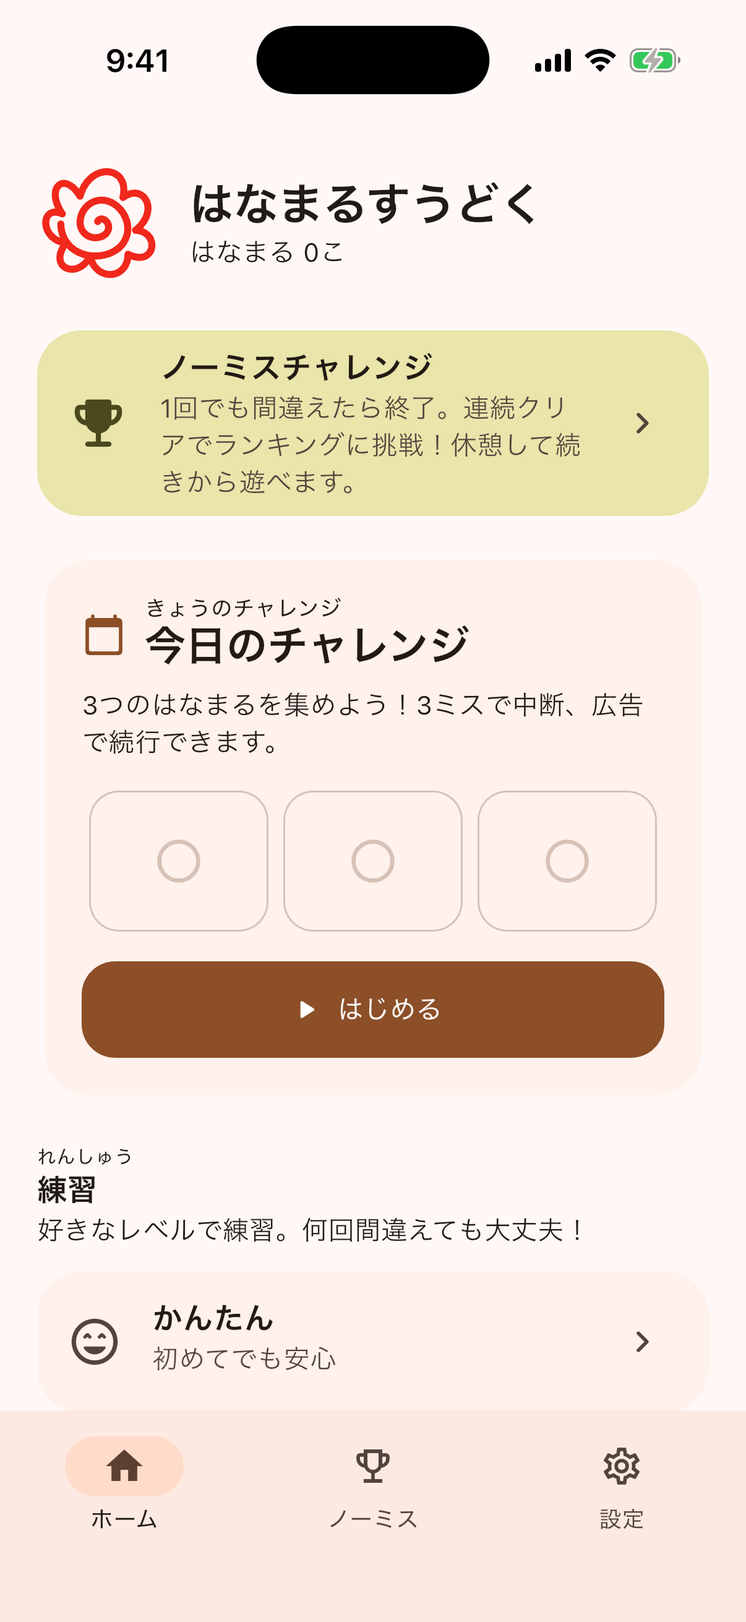
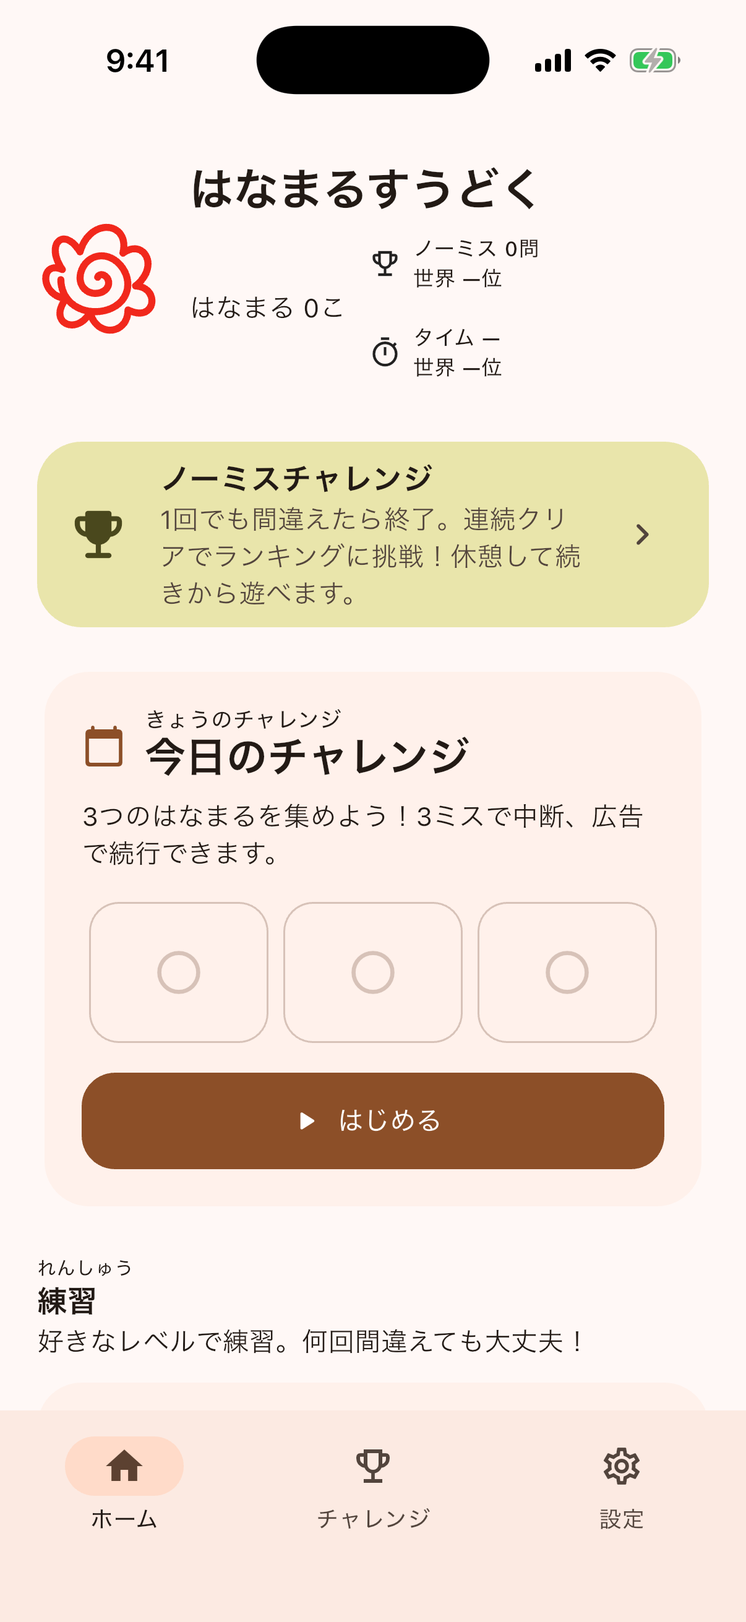
Add Time Attack guide and refresh Sudoku screenshots

diff --git a/hanamarusudoku/privacy/index.html b/hanamarusudoku/privacy/index.html
@@ -4,34 +4,34 @@
 <link rel="canonical" href="https://yysanta.github.io/support/hanamarusudoku/privacy/"><link rel="stylesheet" href="../../assets/site.css"><link rel="stylesheet" href="../site.css"></head><body>
 <a class="skip-link" href="#main-content">本文へ移動</a>
 <header class="site-header"><div class="container header-inner"><a class="brand" href="../"><span><span class="brand-name">はなまるすうどく</span><span class="brand-subtitle">Privacy Policy</span></span></a><nav class="header-nav"><a href="../">サポートへ戻る</a></nav></div></header>
-<main id="main-content"><section class="privacy-hero"><div class="container privacy-hero-inner"><div><p class="eyebrow">PRIVACY POLICY</p><h1>プライバシーポリシー</h1><p>制定・最終更新日 / Effective &amp; updated: 2026-10-10</p><nav class="language-nav" aria-label="Languages"><a href="#ja">日本語</a><a href="#en">English</a><a href="#zh">简体中文</a><a href="#ko">한국어</a></nav></div></div></section>
+<main id="main-content"><section class="privacy-hero"><div class="container privacy-hero-inner"><div><p class="eyebrow">PRIVACY POLICY</p><h1>プライバシーポリシー</h1><p>制定・最終更新日 / Effective &amp; updated: 2026-10-11</p><nav class="language-nav" aria-label="Languages"><a href="#ja">日本語</a><a href="#en">English</a><a href="#zh">简体中文</a><a href="#ko">한국어</a></nav></div></div></section>
 <section class="privacy-section"><div class="container privacy-layout"><article class="privacy-article">
-<section id="ja" lang="ja"><h2>日本語</h2>
+<section id="ja" lang="ja"><h2>日本語</h2><p>手動メモの候補数字と、タイムアタックの開始日時・経過時間・ミス数・途中盤面・選択マス・完了記録を端末内に保存します。ノーミスとタイムアタックの記録は別々に管理します。接続済みの場合、ホームの順位表示のためAppleから自分の世界順位を取得します。取得できない順位を推測したり、独自サーバーへ送信したりはしません。</p>
 <h3>1. 基本方針と運営者</h3><p>Santarow（以下「運営者」）が提供する「はなまるすうどく」（以下「本アプリ」）は、端末内での遊びと記録を基本とします。通常のプレイに登録・ログインは不要です。本ポリシーは現在のiOS版および公式サポートページに適用します。</p>
 <h3>2. 端末内に保存する情報</h3><p>初回説明の完了状態、日付ごとのクリア履歴、はなまるの累計、日次・練習・ランキングの利用回数と広告報酬の回数、休憩中のランキングの盤面・連続クリア数・選択マス、チャレンジの利用日・記録・端末内上位記録、および初回にランダム生成する匿名IDを、機能の提供と進捗表示のために端末内へ保存します。匿名IDは広告IDや端末固有IDではなく、運営者のサーバーへ送信しません。氏名、年齢、生年月日、住所、位置情報、連絡先、写真は本アプリで要求しません。</p><p>運営者は進捗収集用サーバーを運営しておらず、端末内の記録を収集しません。iOSの端末バックアップにアプリデータが含まれる場合、その取扱いは利用者のiOS設定とAppleのサービスに従います。</p>
-<h3>3. 任意のGame Center</h3><p>利用者がGame Centerへの接続を選んだ場合、Appleの認証・ランキング機能を利用します。本アプリは認証状態、ゲーム用プレイヤーID、Game Centerの表示名をAppleから取得し、接続状態の表示とランキング連携に使います。接続中にチャレンジを終了すると、連続クリア数をAppleのGame Centerへ送信します。運営者独自のサーバーへこれらを送信・保存する機能はありません。</p><p>世界ランキングにはGame Centerの名前とスコアが他のプレイヤーに表示されることがあります。端末内の匿名IDとは別です。接続しなくても通常のプレイと端末内記録を利用できます。Appleによるデータの管理・公開範囲については、<a href="https://www.apple.com/legal/privacy/data/ja/game-center/">Game Centerとプライバシー</a>、<a href="https://www.apple.com/legal/privacy/">Appleのプライバシーポリシー</a>およびGame Centerの設定をご確認ください。</p>
+<h3>3. 任意のGame Center</h3><p>利用者がGame Centerへの接続を選んだ場合、Appleの認証・ランキング機能を利用します。本アプリは認証状態、ゲーム用プレイヤーID、Game Centerの表示名をAppleから取得し、接続状態の表示とランキング連携に使います。接続時、接続中の挑戦終了時、世界ランキングを開く時に、保存済みの最高連続クリア数・最短クリア時間（ミス加算を含む）をAppleのGame Centerへ送信します。運営者独自のサーバーへこれらを送信・保存する機能はありません。</p><p>世界ランキングにはGame Centerの名前とスコアが他のプレイヤーに表示されることがあります。端末内の匿名IDとは別です。接続しなくても通常のプレイと端末内記録を利用できます。Appleによるデータの管理・公開範囲については、<a href="https://www.apple.com/legal/privacy/data/ja/game-center/">Game Centerとプライバシー</a>、<a href="https://www.apple.com/legal/privacy/">Appleのプライバシーポリシー</a>およびGame Centerの設定をご確認ください。</p>
 <h3>4. 広告・課金・解析・第三者提供</h3><p>広告対応版では、Google AdMob（Google Mobile Ads SDK）と同意管理用のUser Messaging Platformを利用します。広告は利用者が追加のプレイやヒントを選んだ場合だけ表示し、自動の広告表示は行いません。確認中のテスト版はテスト広告を使用します。広告SDK導入前の1.0.0（7）以前の版には広告はありません。</p><p>Googleは広告配信、不正利用防止、広告測定・解析、サービス改善等のために、IPアドレス（おおまかな位置の推定を含む）、端末・アプリ等の識別子、広告の表示・視聴・操作情報、クラッシュ情報や性能情報を取り扱う場合があります。非パーソナライズ設定でも、すべてのデータ処理がなくなるわけではありません。運営者独自の進捗収集サーバーへこれらを送信する機能はありません。詳しくは<a href="https://policies.google.com/privacy">Googleのプライバシーポリシー</a>と<a href="https://developers.google.com/admob/ios/privacy/data-disclosure">広告SDKのデータ取扱い</a>をご確認ください。</p><p>年齢や生年月日は収集せず、広告リクエストは子ども向け保護設定・Gの広告コンテンツ評価上限・非パーソナライズ設定を適用します。本アプリはAppleの追跡許可を要求しません。広告の前にGoogleの同意情報を確認し、必要な案内を表示します。プライバシー選択の変更が必要と判断された場合は、アプリのヘルプに変更用の入口を表示します。これらの設定は広告内容や法令適合を一律に保証するものではありません。任意の買い切りはAppleのStoreKitを利用します。購入・復元の際はAppleが決済・取引情報を処理し、本アプリは検証済みの購入状態を広告なし機能の提供に使います。購入権利は進捗バックアップに含めず、Appleからの復元を利用します。運営者はカード番号や請求先を取得しません。別の独自解析SDKは導入しておらず、運営者は個人データを販売しません。</p>
 <h3>5. サポートページとお問い合わせ</h3><p>本サイトはGitHub Pagesで公開しています。GitHubはサイトへのアクセスに伴うIPアドレス等の技術情報を取り扱う場合があります。詳しくは<a href="https://docs.github.com/en/site-policy/privacy-policies/github-general-privacy-statement">GitHubのプライバシーに関する声明</a>をご確認ください。運営者は本サイトに広告・アクセス解析・独自のトラッキングを設置していません。</p><p>メールによるお問い合わせでは、送信者のメールアドレスと本文・添付資料を受領します。これらは問い合わせへの回答、不具合調査、必要な連絡のために利用し、対応に必要な期間のみ保持して、不要になった情報は削除します。メールの処理にはGoogleのGmailを利用し、同社の<a href="https://policies.google.com/privacy">プライバシーポリシー</a>も適用されます。パスワードや不要な個人情報は送らないでください。</p>
 <h3>6. お子様・データ削除・ご相談</h3><p>本アプリは幅広い年齢の方が遊べる設計で、自由入力の名前や年齢確認はありません。お子様が外部サービスへの接続やお問い合わせを行う際は、保護者の方とご確認ください。端末内のデータはアプリを削除して削除できます（バックアップはiOS側で管理してください）。Game Centerに送信されたデータはAppleの管理下にあり、アプリの削除だけでは削除されない場合があります。Appleの設定・サポートをご利用ください。</p><p>運営者が受領したお問い合わせ情報の確認・訂正・削除等のご希望は、<a href="mailto:minnanosakusenboard@gmail.com?subject=Hanamaru%20Sudoku%20Privacy">minnanosakusenboard@gmail.com</a>へご連絡ください。法令に基づく保存が必要な場合を除き、本人確認のうえ対応します。</p>
 <h3>7. 改定</h3><p>機能や取扱いの変更に応じて本ページを更新します。重要な変更は、必要に応じてアプリや本サイトでもお知らせします。</p></section>
-<section id="en" lang="en"><h2>English</h2>
+<section id="en" lang="en"><h2>English</h2><p>Pencil-note candidates and Time Attack start timestamps, elapsed time, mistakes, unfinished boards, selected cells and completed records are saved on this device. The two challenge records are separate. When connected, the app reads your world ranks from Apple for the home summary. It does not invent missing ranks or send them to an operator-owned server.</p>
 <h3>Operator and scope</h3><p>Santarow (the “operator”) provides Hanamaru Sudoku. This policy covers the current iOS app and its support website. Ordinary play does not require registration or sign-in.</p>
 <h3>Local data</h3><p>Onboarding completion, daily puzzle completions, total hanamaru, daily/practice/ranked play and reward counts, the board, streak and selected square of a paused ranked run, challenge dates and scores, top on-device records, and a randomly generated anonymous ID are stored locally to provide gameplay and progress. The ID is not an advertising or device identifier and is not sent to the operator. The app does not request your real name, age, date of birth, address, location, contacts or photos. The operator has no server collecting your progress. iOS device backups may include app data according to your settings and Apple's services.</p>
-<h3>Optional Game Center</h3><p>If you choose to connect, Apple's Game Center provides authentication and leaderboards. The app receives authentication status, a game player ID and Game Center display name to show your connection and integrate rankings. When you finish a challenge while connected, your consecutive puzzle-clear score is sent to Apple. The app has no feature sending or storing these details on the operator's own server. Your Game Center name and score may be visible to other players; this is separate from your local anonymous ID. Normal play and local records work without connecting. See <a href="https://www.apple.com/legal/privacy/data/en/game-center/">Game Center &amp; Privacy</a>, <a href="https://www.apple.com/legal/privacy/">Apple's privacy policy</a> and your Game Center settings.</p>
+<h3>Optional Game Center</h3><p>If you choose to connect, Apple's Game Center provides authentication and leaderboards. The app receives authentication status, a game player ID and Game Center display name to show your connection and integrate rankings. On connection, completion while connected and opening world rankings, the app sends saved best streaks and shortest completion times (including mistake penalties) to Apple. The app has no feature sending or storing these details on the operator's own server. Your Game Center name and score may be visible to other players; this is separate from your local anonymous ID. Normal play and local records work without connecting. See <a href="https://www.apple.com/legal/privacy/data/en/game-center/">Game Center &amp; Privacy</a>, <a href="https://www.apple.com/legal/privacy/">Apple's privacy policy</a> and your Game Center settings.</p>
 <h3>Ads, purchases and third parties</h3><p>Ad-supported versions use Google AdMob (Google Mobile Ads SDK) and the User Messaging Platform for consent management. Ads appear only when you choose extra plays or hints, never automatically. Test builds use test ads. Version 1.0.0 (7) and earlier, before SDK integration, have no ads.</p><p>Google may process IP addresses (including approximate location), device or app identifiers, advertising views and interactions, crash logs and performance information for advertising, fraud prevention, measurement, analytics and service improvement. Non-personalized ads do not eliminate all data processing. The app does not send these details to an operator-owned progress server. See <a href="https://policies.google.com/privacy">Google’s privacy policy</a> and <a href="https://developers.google.com/admob/ios/privacy/data-disclosure">SDK data disclosures</a>.</p><p>The app does not collect age or date of birth. Ad requests apply child-protection treatment, a G content-rating limit and non-personalized settings. The app does not request Apple tracking authorization. Consent information is checked before ads, with notices when required and a privacy-options entry in Help when Google determines it is required. These settings do not guarantee all ad content or legal compliance. Optional one-time purchases use Apple StoreKit. Apple handles payment and transaction information; the app uses verified entitlements to unlock ad-free features. Entitlements are restored from Apple, not progress backups. The operator does not receive card numbers or billing addresses. There are no separate independent analytics SDKs; the operator does not sell personal data.</p>
 <h3>Website and support</h3><p>This site uses GitHub Pages. GitHub may process technical access information such as IP addresses under its <a href="https://docs.github.com/en/site-policy/privacy-policies/github-general-privacy-statement">privacy statement</a>. The operator adds no website ads, analytics or independent tracking. If you email us, we receive your email address, message and attachments to answer questions, investigate issues and communicate as needed. We retain them only as needed for support and delete information no longer needed, except where legally required. Email is handled using Google's Gmail under <a href="https://policies.google.com/privacy">Google's privacy policy</a>. Do not send passwords or unnecessary personal details.</p>
 <h3>Children, deletion and requests</h3><p>The app is designed for a broad age range and has no custom-name entry or age check. Children should consult a parent or guardian before connecting external services or contacting support. Deleting the app removes local data; manage backups in iOS. Game Center data is managed by Apple and may remain after app deletion; use Apple's settings and support. Contact <a href="mailto:minnanosakusenboard@gmail.com?subject=Hanamaru%20Sudoku%20Privacy">minnanosakusenboard@gmail.com</a> to request access, correction or deletion of support information the operator holds. We will verify the requester's identity and respond, subject to legal retention requirements.</p>
-<h3>Updates</h3><p>We update this page when functions or practices change and provide additional notice in the app or on this site for important changes where appropriate. Effective and last updated: October 10, 2026.</p></section>
-<section id="zh" lang="zh-Hans"><h2>简体中文</h2>
+<h3>Updates</h3><p>We update this page when functions or practices change and provide additional notice in the app or on this site for important changes where appropriate. Effective and last updated: October 11, 2026.</p></section>
+<section id="zh" lang="zh-Hans"><h2>简体中文</h2><p>手动笔记候选数字及计时挑战的开始时间、经过时间、失误数、未完成棋盘、所选格子和完成记录保存在本机。两项挑战记录分别管理。已连接时，应用从Apple读取自己的世界排名，用于主页显示。不会推测无法获取的排名，也不会发送到运营者服务器。</p>
 <h3>运营者与本机数据</h3><p>本政策适用于Santarow提供的花丸数独iOS应用及支持网站。普通游玩无需注册或登录。首次引导状态、每日完成记录、花丸总数、游玩与广告奖励次数、暂停挑战的棋盘与连续通关数及所选格子、挑战日期与分数、本机最佳记录及随机生成的匿名ID存储在设备上，用于提供游戏和进度功能。该ID不是广告ID或设备标识，不会发送给运营者。应用不要求真实姓名、年龄、出生日期、地址、位置、联系人或照片。运营者没有收集进度的服务器。iOS备份可能按照用户设置及Apple服务包含应用数据。</p>
-<h3>可选Game Center</h3><p>选择连接后，应用从Apple获得认证状态、游戏玩家ID及Game Center显示名称，用于显示连接状态与排行榜。连接状态下结束挑战时，连续完成题数会发送给Apple。应用不会将上述数据发送或保存到运营者自己的服务器。其他玩家可能看到您的Game Center名称与分数，而不是本机匿名ID。不连接也可普通游玩及保存本机记录。Apple的处理和公开设置请参阅<a href="https://www.apple.com/legal/privacy/data/en/game-center/">Game Center与隐私</a>、<a href="https://www.apple.com/legal/privacy/">Apple隐私政策</a>及Game Center设置。</p>
+<h3>可选Game Center</h3><p>选择连接后，应用从Apple获得认证状态、游戏玩家ID及Game Center显示名称，用于显示连接状态与排行榜。连接时、连接状态下结束挑战及打开世界排行榜时，已保存的最高连胜与最短完成时间（含失误加时）会发送给Apple。应用不会将上述数据发送或保存到运营者自己的服务器。其他玩家可能看到您的Game Center名称与分数，而不是本机匿名ID。不连接也可普通游玩及保存本机记录。Apple的处理和公开设置请参阅<a href="https://www.apple.com/legal/privacy/data/en/game-center/">Game Center与隐私</a>、<a href="https://www.apple.com/legal/privacy/">Apple隐私政策</a>及Game Center设置。</p>
 <h3>广告、网站与支持</h3><p>广告支持版本使用Google AdMob（Google Mobile Ads SDK）及User Messaging Platform进行同意管理。仅在您选择增加游玩或提示时显示广告，不会自动播放。测试版本使用测试广告。引入SDK前的1.0.0（7）及更早版本没有广告。</p><p>Google可能为广告投放、防止欺诈、广告测量与分析、服务改进处理IP地址（含大致位置推断）、设备或应用标识、广告展示和互动、崩溃及性能信息。非个性化广告不表示没有任何数据处理。应用不会将这些信息发送给运营者的进度服务器。详情请参阅<a href="https://policies.google.com/privacy">Google隐私政策</a>及<a href="https://developers.google.com/admob/ios/privacy/data-disclosure">SDK数据披露</a>。</p><p>不收集年龄或出生日期。广告请求应用儿童保护、G内容评级上限及非个性化设置，不申请Apple跟踪授权。广告前确认同意信息，按需显示说明；Google判定需要时，在帮助页面提供隐私选项入口。这些设置并不统一保证所有广告内容或法律合规。可选一次性购买使用Apple StoreKit。Apple处理付款及交易信息；应用用验证后的购买状态解锁免广告功能，并通过Apple恢复购买，购买权限不包含在进度备份中。运营者不接收银行卡号或账单地址。没有单独的独立分析SDK，运营者不出售个人数据。</p><p>网站托管于GitHub Pages，GitHub可能按照其<a href="https://docs.github.com/en/site-policy/privacy-policies/github-general-privacy-statement">隐私声明</a>处理IP地址等访问技术信息。运营者未添加广告、分析或独立跟踪。邮件咨询将使我们获得您的邮件地址、正文及附件，仅用于回复、调查问题和必要沟通；保留至支持所需期限，之后删除，法律另有要求除外。邮件使用Gmail，适用<a href="https://policies.google.com/privacy">Google隐私政策</a>。请勿发送密码或不必要的个人信息。</p>
-<h3>儿童、删除与联系</h3><p>本应用面向广泛年龄人群，不提供自定义姓名或年龄检查。儿童连接外部服务或咨询前应与监护人确认。卸载应用可删除本机数据；备份请在iOS中管理。Game Center数据由Apple管理，卸载后可能仍保留，请使用Apple设置与支持。运营者持有的咨询信息之查阅、更正或删除请求，请联系<a href="mailto:minnanosakusenboard@gmail.com">minnanosakusenboard@gmail.com</a>；核实身份后处理，法律要求保留的情况除外。功能或处理方式变化时更新本页，重要变化适时在应用或网站通知。生效及更新日期：2026年10月10日。</p></section>
-<section id="ko" lang="ko"><h2>한국어</h2>
-<h3>운영자 및 기기 내 정보</h3><p>본 방침은 さんたろう(Yysanta)가 제공하는 하나마루 스도쿠 iOS 앱과 지원 사이트에 적용됩니다. 일반 게임에는 가입이나 로그인이 필요 없습니다. 초기 안내 완료 여부, 날짜별 퍼즐 완료 기록, 하나마루 총수, 챌린지 이용 날짜와 점수, 기기 내 상위 기록 및 무작위 익명 ID를 게임과 진행 표시를 위해 기기에 저장합니다. ID는 광고 또는 기기 식별자가 아니며 운영자에게 전송되지 않습니다. 실명, 나이, 생년월일, 주소, 위치, 연락처나 사진을 요청하지 않습니다. 운영자는 진행 정보를 수집하는 서버를 운영하지 않습니다. iOS 백업은 사용자 설정과 Apple 서비스에 따라 앱 데이터를 포함할 수 있습니다.</p>
-<h3>선택적 Game Center</h3><p>사용자가 연결을 선택하면 Apple의 인증 및 순위 기능을 이용합니다. 앱은 Apple로부터 인증 상태, 게임 플레이어 ID와 표시 이름을 받아 연결 표시 및 순위 연동에 사용합니다. 연결 중 챌린지를 종료하면 연속 완료 수를 Apple로 전송합니다. 이를 운영자 자체 서버로 전송하거나 저장하는 기능은 없습니다. 세계 순위에는 기기 내 익명 ID가 아닌 Game Center 이름과 점수가 다른 플레이어에게 표시될 수 있습니다. 연결하지 않아도 일반 게임과 기기 내 기록을 이용할 수 있습니다. <a href="https://www.apple.com/legal/privacy/data/en/game-center/">Game Center 개인정보 안내</a>, <a href="https://www.apple.com/legal/privacy/">Apple 개인정보 처리방침</a> 및 설정을 확인하세요.</p>
+<h3>儿童、删除与联系</h3><p>本应用面向广泛年龄人群，不提供自定义姓名或年龄检查。儿童连接外部服务或咨询前应与监护人确认。卸载应用可删除本机数据；备份请在iOS中管理。Game Center数据由Apple管理，卸载后可能仍保留，请使用Apple设置与支持。运营者持有的咨询信息之查阅、更正或删除请求，请联系<a href="mailto:minnanosakusenboard@gmail.com">minnanosakusenboard@gmail.com</a>；核实身份后处理，法律要求保留的情况除外。功能或处理方式变化时更新本页，重要变化适时在应用或网站通知。生效及更新日期：2026年10月11日。</p></section>
+<section id="ko" lang="ko"><h2>한국어</h2><p>수동 메모 후보와 타임 어택 시작 시각, 경과 시간, 실수 수, 진행 보드, 선택 칸 및 완료 기록을 기기에 저장합니다. 두 도전 기록은 별도로 관리합니다. 연결한 경우 홈 표시를 위해 Apple에서 본인의 세계 순위를 조회합니다. 없는 순위를 추측하거나 운영자 서버에 전송하지 않습니다.</p>
+<h3>운영자 및 기기 내 정보</h3><p>본 방침은 Santarow가 제공하는 하나마루 스도쿠 iOS 앱과 지원 사이트에 적용됩니다. 일반 게임에는 가입이나 로그인이 필요 없습니다. 초기 안내 완료 여부, 날짜별 퍼즐 완료 기록, 하나마루 총수, 챌린지 이용 날짜와 점수, 기기 내 상위 기록 및 무작위 익명 ID를 게임과 진행 표시를 위해 기기에 저장합니다. ID는 광고 또는 기기 식별자가 아니며 운영자에게 전송되지 않습니다. 실명, 나이, 생년월일, 주소, 위치, 연락처나 사진을 요청하지 않습니다. 운영자는 진행 정보를 수집하는 서버를 운영하지 않습니다. iOS 백업은 사용자 설정과 Apple 서비스에 따라 앱 데이터를 포함할 수 있습니다.</p>
+<h3>선택적 Game Center</h3><p>사용자가 연결을 선택하면 Apple의 인증 및 순위 기능을 이용합니다. 앱은 Apple로부터 인증 상태, 게임 플레이어 ID와 표시 이름을 받아 연결 표시 및 순위 연동에 사용합니다. 연결할 때, 연결 중 도전을 마칠 때 및 세계 순위를 열 때 저장된 최고 연속 기록과 최단 완료 시간(실수 추가 시간 포함)을 Apple로 전송합니다. 이를 운영자 자체 서버로 전송하거나 저장하는 기능은 없습니다. 세계 순위에는 기기 내 익명 ID가 아닌 Game Center 이름과 점수가 다른 플레이어에게 표시될 수 있습니다. 연결하지 않아도 일반 게임과 기기 내 기록을 이용할 수 있습니다. <a href="https://www.apple.com/legal/privacy/data/en/game-center/">Game Center 개인정보 안내</a>, <a href="https://www.apple.com/legal/privacy/">Apple 개인정보 처리방침</a> 및 설정을 확인하세요.</p>
 <h3>광고, 웹사이트 및 문의</h3><p>광고 지원 버전은 Google AdMob(Google Mobile Ads SDK)과 동의 관리를 위한 User Messaging Platform을 사용합니다. 추가 플레이 또는 힌트를 선택할 때만 광고가 표시되며 자동으로 나오지 않습니다. 테스트 버전은 테스트 광고를 사용합니다. SDK 도입 전 1.0.0 (7) 이하에는 광고가 없습니다.</p><p>Google은 광고, 부정 이용 방지, 측정·분석 및 서비스 개선을 위해 IP 주소(대략적인 위치 추정 포함), 기기·앱 식별자, 광고 표시·상호작용, 오류 및 성능 정보를 처리할 수 있습니다. 비개인화 광고도 모든 데이터 처리를 없애지는 않습니다. 앱은 이를 운영자의 진행 수집 서버로 보내지 않습니다. <a href="https://policies.google.com/privacy">Google 개인정보 처리방침</a>과 <a href="https://developers.google.com/admob/ios/privacy/data-disclosure">SDK 데이터 안내</a>를 확인하세요.</p><p>나이와 생년월일을 수집하지 않습니다. 광고 요청에 아동 보호, G 콘텐츠 등급 상한 및 비개인화 설정을 적용하며 Apple 추적 허용을 요청하지 않습니다. 광고 전 동의 정보를 확인하고 필요한 안내를 표시합니다. Google이 필요하다고 판단하면 도움말에 개인정보 옵션 변경 메뉴를 표시합니다. 이러한 설정이 모든 광고 내용이나 법적 적합성을 보장하지는 않습니다. 선택적 일회성 구매는 Apple StoreKit을 사용합니다. Apple이 결제·거래 정보를 처리하고 앱은 검증된 구매 권한으로 광고 제거 기능을 제공합니다. 권한은 진행 백업이 아닌 Apple에서 복원합니다. 운영자는 카드 번호나 청구 주소를 받지 않습니다. 별도 자체 분석 SDK가 없으며 운영자는 개인정보를 판매하지 않습니다.</p><p>사이트는 GitHub Pages를 사용합니다. GitHub는 <a href="https://docs.github.com/en/site-policy/privacy-policies/github-general-privacy-statement">개인정보 안내</a>에 따라 IP 주소 등 기술적 접속 정보를 처리할 수 있습니다. 운영자는 사이트에 광고, 분석 또는 자체 추적을 추가하지 않습니다. 이메일 문의 시 주소, 본문과 첨부를 받으며 답변, 오류 조사와 필요한 연락에만 이용합니다. 지원에 필요한 기간만 보관하고 불필요한 정보는 삭제하되 법적 보관 의무는 따릅니다. Gmail을 사용하므로 <a href="https://policies.google.com/privacy">Google 개인정보 처리방침</a>도 적용됩니다. 비밀번호나 불필요한 개인정보를 보내지 마세요.</p>
-<h3>아동, 삭제 및 문의처</h3><p>다양한 연령을 대상으로 하며 이름 입력이나 나이 확인은 없습니다. 아동은 외부 서비스 연결 또는 문의 전에 보호자와 확인해 주세요. 앱 삭제로 기기 내 데이터를 삭제할 수 있으며 백업은 iOS에서 관리합니다. Game Center 데이터는 Apple이 관리하며 앱 삭제 후 남을 수 있으므로 Apple 설정과 지원을 이용하세요. 운영자가 보유한 문의 정보의 확인, 정정이나 삭제는 <a href="mailto:minnanosakusenboard@gmail.com">minnanosakusenboard@gmail.com</a>으로 요청할 수 있습니다. 본인 확인 후 처리하며 법적 보관 의무가 있으면 예외가 적용됩니다. 기능 및 처리 변경 시 본 페이지를 갱신하고 중요한 변경은 필요에 따라 앱 또는 사이트로 알립니다. 시행 및 갱신일: 2026년 10월 10일.</p></section>
+<h3>아동, 삭제 및 문의처</h3><p>다양한 연령을 대상으로 하며 이름 입력이나 나이 확인은 없습니다. 아동은 외부 서비스 연결 또는 문의 전에 보호자와 확인해 주세요. 앱 삭제로 기기 내 데이터를 삭제할 수 있으며 백업은 iOS에서 관리합니다. Game Center 데이터는 Apple이 관리하며 앱 삭제 후 남을 수 있으므로 Apple 설정과 지원을 이용하세요. 운영자가 보유한 문의 정보의 확인, 정정이나 삭제는 <a href="mailto:minnanosakusenboard@gmail.com">minnanosakusenboard@gmail.com</a>으로 요청할 수 있습니다. 본인 확인 후 처리하며 법적 보관 의무가 있으면 예외가 적용됩니다. 기능 및 처리 변경 시 본 페이지를 갱신하고 중요한 변경은 필요에 따라 앱 또는 사이트로 알립니다. 시행 및 갱신일: 2026년 10월 11일.</p></section>
 </article><aside class="privacy-aside"><img src="../../assets/images/hanamaru-app-icon.png" width="72" height="72" alt=""><p class="privacy-aside-title">はなまるすうどく</p><p>サポートや不具合報告は、サポートページをご確認ください。</p><a class="button button-primary" href="../">サポートへ戻る</a></aside></div></section></main>
 <footer class="site-footer"><div class="container footer-inner"><div><p class="footer-brand">はなまるすうどく</p><p>運営者：Santarow</p></div><div><a href="../">サポート</a> · <a href="../../">アプリ一覧</a><p>© 2026 Santarow</p></div></div></footer>
 </body></html>

diff --git a/hanamarusudoku/index.html b/hanamarusudoku/index.html
@@ -3,7 +3,7 @@
 <head>
   <meta charset="utf-8"><meta name="viewport" content="width=device-width,initial-scale=1">
   <title>はなまるすうどく | サポート</title>
-  <meta name="description" content="ノーミスで、何問続く？はなまるすうどくの遊び方、お問い合わせ、プライバシーポリシー。">
+  <meta name="description" content="ノーミスとタイムアタック。はなまるすうどくの遊び方、お問い合わせ、プライバシーポリシー。">
   <link rel="canonical" href="https://yysanta.github.io/support/hanamarusudoku/">
   <link rel="icon" href="../assets/images/hanamaru-app-icon.png">
   <link rel="stylesheet" href="../assets/site.css"><link rel="stylesheet" href="./site.css">
@@ -16,26 +16,27 @@
 </div></header>
 <main id="main-content">
 <section class="hero"><div class="container hero-layout">
-  <div><img class="hero-icon" src="../assets/images/hanamaru-app-icon.png" width="96" height="96" alt="はなまるすうどくのアイコン"><p class="tag">一度のミスで終了。自分の最高記録へ。</p><h1>ノーミスで、<br>何問続く？</h1><p>ヒントなしで連続クリア数を競うナンプレ。<br>休憩して、続きから。初心者には4×4の練習も。</p><p class="note">iPhone・iPad向け。現在は公開準備中です。<br>日本語・英語・中国語・韓国語に対応。</p><div class="links"><a href="#guide">遊び方を見る</a><a href="./privacy/">プライバシーポリシー</a></div></div>
+  <div><img class="hero-icon" src="../assets/images/hanamaru-app-icon.png" width="96" height="96" alt="はなまるすうどくのアイコン"><p class="tag">一度のミスで終了。自分の最高記録へ。</p><h1>ノーミスで、<br>何問続く？</h1><p>ヒントなしで連続クリア数を競うナンプレ。<br>9×9のタイムアタックでも、最速記録に挑戦。<br>休憩して、続きから。初心者には4×4の練習も。</p><p class="note">iPhone・iPad向け。現在は公開準備中です。<br>日本語・英語・中国語・韓国語に対応。</p><div class="links"><a href="#guide">遊び方を見る</a><a href="./privacy/">プライバシーポリシー</a></div></div>
   <img class="hero-screen" src="./images/challenge-ja.png" width="1206" height="2622" alt="はなまるすうどくの実際のノーミスチャレンジ画面">
 </div></section>
 <section class="section" id="guide"><div class="container"><h2>はじめてでも、ひとつずつ。</h2><div class="features">
 <article><h3>① マスを選ぶ</h3><p>空いているマスをタップ。赤い枠が、今選んでいるマスです。</p></article>
 <article><h3>② 数字を置く</h3><p>下の数字をタップ。たて・よこ・太い線の中で、同じ数字が重ならないように置きます。</p></article>
-<article><h3>③ 練習ではヒントも</h3><p>練習・今日のチャレンジは1問3回無料。ノーミスチャレンジでは使えません。まずは4×4の練習からどうぞ。</p></article>
+<article><h3>③ 練習ではヒントも</h3><p>練習・今日のチャレンジは1問3回無料。ノーミス・タイムアタックでは使えません。手動メモは全モードで無料です。まずは4×4の練習からどうぞ。</p></article>
 </div></div></section>
-<section class="section"><div class="container"><h2>ノーミスで、自分の限界に挑戦。</h2><p>かんたん（4×4）→ふつう（6×6）→むずかしい（9×9）をくり返します。ヒントなし、最初の間違いで終了。何問連続でクリアできるかを競い、端末内の上位10件に記録します。</p><h3>世界ランキングはGame Centerで</h3><p>接続は任意です。接続中に挑戦を終了すると、記録がAppleに送られ、世界ランキングにはGame Centerの名前が表示されます。端末内の匿名IDとは別です。</p><h3>休憩して、続きから</h3><p>ノーミス挑戦は途中で保存できます。アプリを閉じても同じ盤面・連続クリア数から無料で再開。休憩中のスコアは送信しません。</p><h3>気軽に練習、毎日はなまる</h3><p>練習はかんたん・ふつう・むずかしいを選べ、何回間違えても終了しません。今日のチャレンジは3ミスでいったん中断。任意の広告1回で、同じ問題にさらに3ミスまで挑戦できます。クリアで1日3つまではなまるを集められます。ノーミスは1ミスで終了し、広告での復活はありません。</p></div></section>
+<section class="section"><div class="container"><h2>ノーミスで、自分の限界に挑戦。</h2><p>かんたん（4×4）→ふつう（6×6）→むずかしい（9×9）をくり返します。ヒントなし、最初の間違いで終了。何問連続でクリアできるかを競い、端末内の上位10件に記録します。</p><h3>世界ランキングはGame Centerで</h3><p>接続は任意です。接続時・接続中の終了時・世界ランキングを開く時に、保存済みの最高記録がAppleに送られ、世界ランキングにはGame Centerの名前が表示されます。端末内の匿名IDとは別です。</p><h3>休憩して、続きから</h3><p>ノーミス挑戦は途中で保存できます。アプリを閉じても同じ盤面・連続クリア数から無料で再開。休憩中のスコアは送信しません。</p><h3>気軽に練習、毎日はなまる</h3><p>練習はかんたん・ふつう・むずかしいを選べ、何回間違えても終了しません。今日のチャレンジは3ミスでいったん中断。任意の広告1回で、同じ問題にさらに3ミスまで挑戦できます。クリアで1日3つまではなまるを集められます。ノーミスは1ミスで終了し、広告での復活はありません。</p></div></section>
+<section class="section" id="time-attack"><div class="container"><h2>9×9で、最速を目指そう</h2><p>9×9の1問を解く速さで勝負。ヒントなし、メモは使えます。ミス1回につき10秒加算。休憩中やアプリを閉じている間も時計は進みます。ノーミスとは別に1日1回無料、広告1回で1回追加できます。</p><p>「チャレンジ挑戦し放題」と「全部入り」は、ノーミス・タイムアタックの両方が広告なし・回数制限なしです。以前の「ノーミス挑戦し放題」の購入も対象です。</p><p>ホームのはなまる横に、ノーミスの最高記録・タイムアタックの最速記録と、取得できた世界順位を表示します。未接続や取得できない順位は「—」。タップで各モードへ進めます。</p><div class="features"><article><h3>9×9で速さに挑戦</h3><img class="hero-screen" src="./images/time-attack-ja.png" width="1206" height="2622" alt="実際のタイムアタック画面。計時、ミス加算、手動メモ"></article><article><h3>ホームから記録へ</h3><img class="hero-screen" src="./images/home-ja.png" width="1206" height="2622" alt="二つの記録を表示した実際のホーム画面"></article><article><h3>無料の手動メモ</h3><p>「メモ」に切り替えて候補の数字をタップ。同じ数字をもう一度押すと外せます。小さい候補と点線枠で確定数字と区別できます。メモでミスやタイム加算は発生しません。</p></article></div></div></section>
 <section class="section" id="support"><div class="container"><h2>サポート・よくある質問</h2><div class="help-box">
-<h3>無料でどこまで遊べますか？</h3><p>毎日、ノーミス1回・練習5回・今日のチャレンジ3回を無料で開始できます。広告1回でプレイ1回を追加。練習・ノーミスの追加回数に上限はなく、今日の新しい問題を追加する広告は1日3回まで。同じ問題の3ミス後の続行広告には回数制限はありません。ヒントは1問3回無料、広告1回で3回追加（広告は1問2回まで）です。広告は自分で選んだ時だけ表示し、自動では出ません。公開準備中のテスト版はテスト広告で、本番の配信設定は確認中です。</p>
-<h3>途中の問題は保存されますか？</h3><p>ノーミス挑戦と今日のチャレンジは途中の盤面も保存・無料再開できます。今日のチャレンジは日付が変わっても開始した日のはなまるとして記録され、休憩ではミス回数は回復しません。練習には途中保存はありません。クリア履歴・はなまる・記録は端末内保存で、端末間の進捗同期はありません。</p>
-<h3>盤面の色を変えられますか？</h3><p>累計はなまる3個ごとに、青・緑・桃・紫・金の色が順に解放されます。練習のはなまるも対象です。「設定」で選べ、広告や購入は不要です。下のホーム・ノーミス・設定タブで画面を切り替えられます。</p>
-<h3>広告をなくせますか？</h3><p>任意の買い切りでノーミス挑戦し放題、練習・毎日の広告なし、全部入りを選べます。個別購入後の追加アップグレードと購入復元に対応。月額料金はありません。価格は購入画面で確認してください。毎日はなまる3つ・1問のヒント最大9回・ノーミスのヒントなしは変わりません。購入機能は現在テスト中です。</p><h3>Game Centerを使わなくても遊べますか？</h3><p>はい。通常のナンプレと端末内ランキングは、Game Centerに接続しなくても利用できます。世界ランキングは通信とAppleのGame Centerアカウントが必要です。</p>
+<h3>無料でどこまで遊べますか？</h3><p>毎日、ノーミス1回・タイムアタック1回・練習5回・今日のチャレンジ3回を無料で開始できます。広告1回でプレイ1回を追加。練習・ノーミス・タイムアタックの追加回数に上限はなく、今日の新しい問題を追加する広告は1日3回まで。同じ問題の3ミス後の続行広告には回数制限はありません。ヒントは1問3回無料、広告1回で3回追加（広告は1問2回まで）です。広告は自分で選んだ時だけ表示し、自動では出ません。公開準備中のテスト版はテスト広告で、本番の配信設定は確認中です。</p>
+<h3>途中の問題は保存されますか？</h3><p>ノーミス・タイムアタック・今日のチャレンジは途中の盤面も保存・無料再開できます。タイムアタックは休憩中も計時します。今日のチャレンジは日付が変わっても開始した日のはなまるとして記録され、休憩ではミス回数は回復しません。練習には途中保存はありません。クリア履歴・はなまる・記録は端末内保存で、端末間の進捗同期はありません。</p>
+<h3>盤面の色を変えられますか？</h3><p>累計はなまる3個ごとに、青・緑・桃・紫・金の色が順に解放されます。練習のはなまるも対象です。「設定」で選べ、広告や購入は不要です。下のホーム・チャレンジ・設定タブで画面を切り替えられます。</p>
+<h3>広告をなくせますか？</h3><p>任意の買い切りでチャレンジ挑戦し放題（ノーミス・タイムアタック）、練習・毎日の広告なし、全部入りを選べます。個別購入後の追加アップグレードと購入復元に対応。月額料金はありません。価格は購入画面で確認してください。毎日はなまる3つ・1問のヒント最大9回・ノーミスのヒントなしは変わりません。購入機能は現在テスト中です。</p><h3>Game Centerを使わなくても遊べますか？</h3><p>はい。通常のナンプレと端末内ランキングは、Game Centerに接続しなくても利用できます。世界ランキングは通信とAppleのGame Centerアカウントが必要です。</p>
 <h3>データを削除したいときは？</h3><p>端末内のデータはアプリを削除すると削除されます。バックアップの扱いはiOSの設定に従います。Apple側のGame Centerデータについては、Appleの設定・サポートをご確認ください。</p>
 <h3>お問い合わせ</h3><p>不具合・ご意見・プライバシーに関するお問い合わせは、<a href="mailto:minnanosakusenboard@gmail.com?subject=Hanamaru%20Sudoku%20Support">minnanosakusenboard@gmail.com</a>へ。「はなまるすうどく」と、端末・iOS・アプリのバージョンを添えてください。パスワード、年齢、住所などは送らないでください。</p>
 </div><div class="links"><a href="./privacy/">プライバシーポリシーを読む</a></div></div></section>
-<section class="section" id="english" lang="en"><div class="container"><h2>Hanamaru Sudoku — Support</h2><p>No mistakes. How far can you go? Cycle Easy → Normal → Hard without hints; your first mistake ends the run. Compete on consecutive clears, with optional Game Center world rankings. The leaderboard shows your Game Center name, not your local anonymous ID. Pause, close the app and resume the same board for free; paused scores are not submitted.</p><p>Practice never ends for mistakes and has 5 free starts a day. Daily Challenge has 3 free starts. After 3 mistakes, one optional ad lets you continue the same puzzle with 3 more chances. Collect up to 3 daily stamps. Both modes include 3 free hints per puzzle. Daily and no-mistake runs can be paused and resumed for free. Ranked runs end on the first mistake and cannot be revived. Ads only appear when you choose them. Every 3 total stamps unlock a board color in Settings.</p><p>Optional one-time purchases unlock unlimited ranked runs, ad-free practice and daily play, or both. A separate upgrade is available after buying one pack. See the purchase screen for prices and restore purchases there. Daily stamps stay capped at 3, hints at 9 per puzzle, and ranked runs have no hints.</p><p>One optional ad adds one new start: practice and ranked extras have no limit; extra daily starts are capped at 3 ads per day. Ads to continue the same daily puzzle after mistakes have no count limit. An ad adds 3 hints, up to twice per puzzle. Unfinished practice boards and cross-device progress sync are not supported. Test builds use test ads; production ads and purchases are being verified.</p><p>Contact: <a href="mailto:minnanosakusenboard@gmail.com">minnanosakusenboard@gmail.com</a> · <a href="./privacy/#en">Privacy policy</a></p></div></section>
-<section class="section" id="chinese" lang="zh-Hans"><div class="container"><h2>花丸数独 — 支持</h2><p>一次不出错，能连续过几关？无提示，简单→普通→困难循环，首次失误即结束，以连续通关数排名。可选Game Center世界排行榜，显示Game Center名称而非本机匿名ID。可暂停并关闭应用，免费从同一棋盘继续，暂停成绩不提交。</p><p>练习答错也不结束，每天免费5次。每日挑战每天免费3次；错3次后暂停，主动看一次广告可继续同一道题并获得3次机会。每天最多收集3个花丸，两种模式每题均有3次免费提示。每日挑战与无失误挑战可保存并免费继续。排行挑战错一次即结束，不能复活。广告仅在主动选择时显示。累计每3个花丸解锁一种棋盘颜色，可在设置中更换。</p><p>可选一次性购买：排行挑战不限次数、练习与每日挑战免广告，或全部解锁。购买一个单独组合后可另行升级。价格与恢复购买在购买页面查看。每天最多3个花丸，每题最多9次提示，排行挑战始终无提示。</p><p>主动观看一次广告可开始1次新游戏：练习与排行追加不限次数，每日挑战新题追加广告每天最多3次。同一道每日题目失误后的继续广告次数不限。每次广告追加3次提示，每题最多2次。练习不支持中途保存，不支持跨设备进度同步。测试版使用测试广告，正式广告与购买功能正在确认。</p><p>Contact: <a href="mailto:minnanosakusenboard@gmail.com">minnanosakusenboard@gmail.com</a> · <a href="./privacy/#zh">Privacy policy</a></p></div></section>
-<section class="section" id="korean" lang="ko"><div class="container"><h2>하나마루 스도쿠 — 지원</h2><p>실수 없이, 몇 문제까지? 힌트 없이 쉬움→보통→어려움을 반복하며 한 번 틀리면 종료됩니다. 연속 성공 수로 겨루고 선택적으로 Game Center 세계 순위에 참여하세요. 순위에는 기기 익명 ID가 아닌 Game Center 이름이 나옵니다. 저장하고 앱을 닫아도 같은 보드에서 무료로 이어 할 수 있으며 쉬는 점수는 제출하지 않습니다.</p><p>연습은 틀려도 끝나지 않고 하루 5회 무료입니다. 오늘의 도전은 하루 3회 무료이며 3번 틀리면 멈춥니다. 원할 때 광고 1회를 보면 같은 문제에서 기회 3회를 더 받을 수 있어요. 하루 도장 최대 3개, 두 모드 모두 문제당 무료 힌트 3회입니다. 오늘의 도전과 노미스 도전은 저장 후 무료로 이어 할 수 있어요. 순위 도전은 한 번 틀리면 끝나고 부활할 수 없습니다. 광고는 선택할 때만 나옵니다. 누적 도장 3개마다 보드 색상이 열리며 설정에서 바꿀 수 있어요.</p><p>월정액이 아닌 일회성 구매로 순위 도전 무제한, 연습·오늘의 도전 광고 제거, 또는 모두를 선택할 수 있어요. 하나를 구매한 뒤 추가 업그레이드도 가능합니다. 가격과 구매 복원은 구매 화면에서 확인하세요. 하루 도장 3개, 문제당 힌트 최대 9회, 순위 도전의 힌트 없음은 유지됩니다.</p><p>선택한 광고 1회로 새 플레이 1회를 추가합니다. 연습·순위 추가는 제한이 없고 오늘의 새 문제 추가 광고는 하루 최대 3회입니다. 같은 오늘의 문제에서 실수 후 이어 하는 광고는 횟수 제한이 없습니다. 광고당 힌트 3회 추가, 문제당 최대 2회입니다. 연습 중간 저장과 기기 간 동기화는 없습니다. 테스트 광고를 사용 중이며 실제 광고와 구매를 확인 중입니다.</p><p>Contact: <a href="mailto:minnanosakusenboard@gmail.com">minnanosakusenboard@gmail.com</a> · <a href="./privacy/#ko">Privacy policy</a></p></div></section>
+<section class="section" id="english" lang="en"><div class="container"><h2>Hanamaru Sudoku — Support</h2><h3>Time Attack</h3><p>Solve one 9×9 puzzle as fast as you can. No hints; pencil notes are allowed. Each mistake adds 10 seconds. The clock keeps running during breaks and while the app is closed. One free run daily, separate from No-Mistake; one ad adds one run.</p><p>Unlimited Challenges and the All-in-One Pack include unlimited, ad-free No-Mistake and Time Attack runs. Previous Unlimited No-Mistake purchases also qualify.</p><p>No mistakes. How far can you go? Cycle Easy → Normal → Hard without hints; your first mistake ends the run. Compete on consecutive clears, with optional Game Center world rankings. The leaderboard shows your Game Center name, not your local anonymous ID. Pause, close the app and resume the same board for free; paused scores are not submitted.</p><p>Practice never ends for mistakes and has 5 free starts a day. Daily Challenge has 3 free starts. After 3 mistakes, one optional ad lets you continue the same puzzle with 3 more chances. Collect up to 3 daily stamps. Both modes include 3 free hints per puzzle. Daily and no-mistake runs can be paused and resumed for free. No-Mistake runs end on the first mistake and cannot be revived. Ads only appear when you choose them. Every 3 total stamps unlock a board color in Settings.</p><p>Optional one-time purchases unlock unlimited ranked runs, ad-free practice and daily play, or both. A separate upgrade is available after buying one pack. See the purchase screen for prices and restore purchases there. Daily stamps stay capped at 3, hints at 9 per puzzle, and ranked runs have no hints.</p><p>One optional ad adds one new start: practice and ranked extras have no limit; extra daily starts are capped at 3 ads per day. Ads to continue the same daily puzzle after mistakes have no count limit. An ad adds 3 hints, up to twice per puzzle. Unfinished practice boards and cross-device progress sync are not supported. Test builds use test ads; production ads and purchases are being verified.</p><p>Contact: <a href="mailto:minnanosakusenboard@gmail.com">minnanosakusenboard@gmail.com</a> · <a href="./privacy/#en">Privacy policy</a></p></div></section>
+<section class="section" id="chinese" lang="zh-Hans"><div class="container"><h2>花丸数独 — 支持</h2><h3>计时挑战</h3><p>尽快完成一道9×9数独。无提示，可使用笔记。每次失误加10秒。暂停及关闭应用期间仍计时。与零失误模式分别每天免费1次，观看一次广告可追加1次。</p><p>无限挑战和全部解锁均包含零失误及计时挑战，免广告且不限次数。之前购买的无限无失误挑战同样适用。</p><p>一次不出错，能连续过几关？无提示，简单→普通→困难循环，首次失误即结束，以连续通关数排名。可选Game Center世界排行榜，显示Game Center名称而非本机匿名ID。可暂停并关闭应用，免费从同一棋盘继续，暂停成绩不提交。</p><p>练习答错也不结束，每天免费5次。每日挑战每天免费3次；错3次后暂停，主动看一次广告可继续同一道题并获得3次机会。每天最多收集3个花丸，两种模式每题均有3次免费提示。每日挑战与无失误挑战可保存并免费继续。零失误挑战错一次即结束，不能复活。广告仅在主动选择时显示。累计每3个花丸解锁一种棋盘颜色，可在设置中更换。</p><p>可选一次性购买：排行挑战不限次数、练习与每日挑战免广告，或全部解锁。购买一个单独组合后可另行升级。价格与恢复购买在购买页面查看。每天最多3个花丸，每题最多9次提示，排行挑战始终无提示。</p><p>主动观看一次广告可开始1次新游戏：练习与排行追加不限次数，每日挑战新题追加广告每天最多3次。同一道每日题目失误后的继续广告次数不限。每次广告追加3次提示，每题最多2次。练习不支持中途保存，不支持跨设备进度同步。测试版使用测试广告，正式广告与购买功能正在确认。</p><p>Contact: <a href="mailto:minnanosakusenboard@gmail.com">minnanosakusenboard@gmail.com</a> · <a href="./privacy/#zh">Privacy policy</a></p></div></section>
+<section class="section" id="korean" lang="ko"><div class="container"><h2>하나마루 스도쿠 — 지원</h2><h3>타임 어택</h3><p>9×9 한 문제를 최대한 빨리 풀어요. 힌트 없이 메모는 사용할 수 있어요. 실수마다 10초가 추가됩니다. 쉬거나 앱을 닫아도 시간은 계속 흘러요. 노미스와 별도로 하루 1회 무료, 광고 1회로 1회를 추가해요.</p><p>무제한 챌린지와 올인원 팩은 노미스·타임 어택 모두 광고 없이 무제한 도전할 수 있어요. 이전 노미스 무제한 도전 구매도 포함됩니다.</p><p>실수 없이, 몇 문제까지? 힌트 없이 쉬움→보통→어려움을 반복하며 한 번 틀리면 종료됩니다. 연속 성공 수로 겨루고 선택적으로 Game Center 세계 순위에 참여하세요. 순위에는 기기 익명 ID가 아닌 Game Center 이름이 나옵니다. 저장하고 앱을 닫아도 같은 보드에서 무료로 이어 할 수 있으며 쉬는 점수는 제출하지 않습니다.</p><p>연습은 틀려도 끝나지 않고 하루 5회 무료입니다. 오늘의 도전은 하루 3회 무료이며 3번 틀리면 멈춥니다. 원할 때 광고 1회를 보면 같은 문제에서 기회 3회를 더 받을 수 있어요. 하루 도장 최대 3개, 두 모드 모두 문제당 무료 힌트 3회입니다. 오늘의 도전과 노미스 도전은 저장 후 무료로 이어 할 수 있어요. 노미스 도전은 한 번 틀리면 끝나고 부활할 수 없습니다. 광고는 선택할 때만 나옵니다. 누적 도장 3개마다 보드 색상이 열리며 설정에서 바꿀 수 있어요.</p><p>월정액이 아닌 일회성 구매로 순위 도전 무제한, 연습·오늘의 도전 광고 제거, 또는 모두를 선택할 수 있어요. 하나를 구매한 뒤 추가 업그레이드도 가능합니다. 가격과 구매 복원은 구매 화면에서 확인하세요. 하루 도장 3개, 문제당 힌트 최대 9회, 순위 도전의 힌트 없음은 유지됩니다.</p><p>선택한 광고 1회로 새 플레이 1회를 추가합니다. 연습·순위 추가는 제한이 없고 오늘의 새 문제 추가 광고는 하루 최대 3회입니다. 같은 오늘의 문제에서 실수 후 이어 하는 광고는 횟수 제한이 없습니다. 광고당 힌트 3회 추가, 문제당 최대 2회입니다. 연습 중간 저장과 기기 간 동기화는 없습니다. 테스트 광고를 사용 중이며 실제 광고와 구매를 확인 중입니다.</p><p>Contact: <a href="mailto:minnanosakusenboard@gmail.com">minnanosakusenboard@gmail.com</a> · <a href="./privacy/#ko">Privacy policy</a></p></div></section>
 </main>
 <footer class="site-footer"><div class="container footer-inner"><div><p class="footer-brand">はなまるすうどく</p><p>運営者：Santarow</p></div><div><a href="./privacy/">プライバシーポリシー</a> · <a href="../">アプリ一覧</a><p>© 2026 Santarow</p></div></div></footer>
 </body></html>
